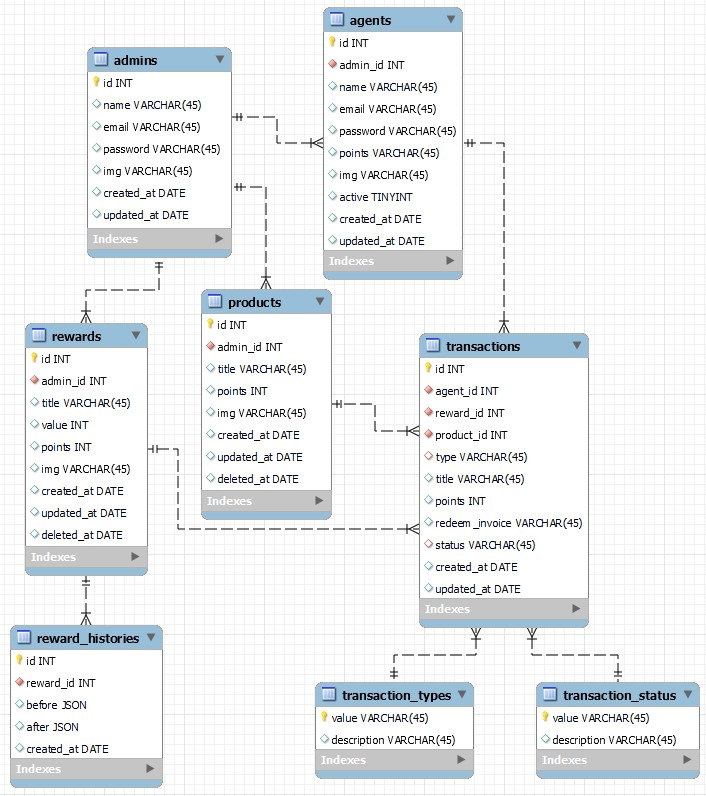
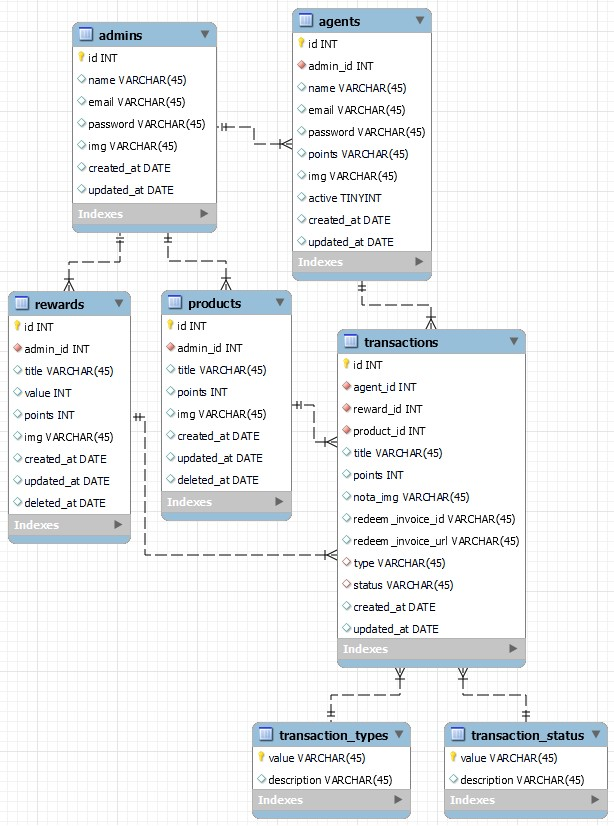
update erd & add xendit

Changed region(s): [[0.0, 0.0, 1.0, 1.0], [0.2476, 0.995, 0.2785, 1.0]]

diff --git a/src/transactions/repositories/record.go b/src/transactions/repositories/record.go
@@ -7,17 +7,19 @@ import (
 )
 
 type Transaction struct {
-	ID            uuid.UUID `gorm:"primaryKey; type:uuid; default:uuid_generate_v4()"`
-	AgentID       uuid.UUID `gorm:"type:uuid; not null"`
-	RewardID      uint32
-	ProductID     uint32
-	Type          string `gorm:"not null"`
-	Title         string `gorm:"not null"`
-	Points        uint32 `gorm:"not null"`
-	RedeemInvoice string
-	Status        string    `gorm:"not null; default:Pending"`
-	CreatedAt     time.Time `gorm:"not null; default: now()"`
-	UpdatedAt     time.Time `gorm:"not null; default: now()"`
+	ID               uuid.UUID `gorm:"primaryKey; type:uuid; default:uuid_generate_v4()"`
+	AgentID          uuid.UUID `gorm:"type:uuid; not null"`
+	RewardID         uint32
+	ProductID        uint32
+	Title            string `gorm:"not null"`
+	Points           uint32 `gorm:"not null"`
+	NotaImg          string
+	RedeemInvoiceID  string
+	RedeemInvoiceURL string
+	Type             string    `gorm:"not null"`
+	Status           string    `gorm:"not null; default:Pending"`
+	CreatedAt        time.Time `gorm:"not null; default: now()"`
+	UpdatedAt        time.Time `gorm:"not null; default: now()"`
 }
 
 type TransactionStatus struct {
@@ -34,17 +36,19 @@ type TransactionType struct {
 
 func (rec *Transaction) ToTransaction() entities.Domain {
 	return entities.Domain{
-		ID:            rec.ID,
-		AgentID:       rec.AgentID,
-		RewardID:      rec.RewardID,
-		ProductID:     rec.ProductID,
-		Type:          rec.Type,
-		Title:         rec.Title,
-		Points:        rec.Points,
-		RedeemInvoice: rec.RedeemInvoice,
-		Status:        rec.Status,
-		CreatedAt:     rec.CreatedAt,
-		UpdatedAt:     rec.UpdatedAt,
+		ID:               rec.ID,
+		AgentID:          rec.AgentID,
+		RewardID:         rec.RewardID,
+		ProductID:        rec.ProductID,
+		Title:            rec.Title,
+		Points:           rec.Points,
+		NotaImg:          rec.NotaImg,
+		RedeemInvoiceID:  rec.RedeemInvoiceID,
+		RedeemInvoiceURL: rec.RedeemInvoiceURL,
+		Type:             rec.Type,
+		Status:           rec.Status,
+		CreatedAt:        rec.CreatedAt,
+		UpdatedAt:        rec.UpdatedAt,
 	}
 }
 
@@ -53,5 +57,6 @@ func createClaims(p entities.Domain, rec *Transaction) {
 	rec.ProductID = p.ProductID
 	rec.Title = p.Title
 	rec.Points = p.Points
+	rec.NotaImg = p.NotaImg
 	rec.Type = "Debit"
 }

diff --git a/src/transactions/entities/domain.go b/src/transactions/entities/domain.go
@@ -6,17 +6,19 @@ import (
 )
 
 type Domain struct {
-	ID            uuid.UUID
-	AgentID       uuid.UUID
-	RewardID      uint32
-	ProductID     uint32
-	Type          string
-	Title         string
-	Points        uint32
-	RedeemInvoice string
-	Status        string
-	CreatedAt     time.Time
-	UpdatedAt     time.Time
+	ID               uuid.UUID
+	AgentID          uuid.UUID
+	RewardID         uint32
+	ProductID        uint32
+	Title            string
+	Points           uint32
+	NotaImg          string
+	RedeemInvoiceID  string
+	RedeemInvoiceURL string
+	Type             string
+	Status           string
+	CreatedAt        time.Time
+	UpdatedAt        time.Time
 }
 
 type TransactionStatus struct {

diff --git a/src/transactions/repositories/xendit.go b/src/transactions/repositories/xendit.go
@@ -1,0 +1,29 @@
+package repositories
+
+import (
+	"fmt"
+	"github.com/spf13/viper"
+	"github.com/xendit/xendit-go"
+	"github.com/xendit/xendit-go/invoice"
+	"log"
+	"time"
+)
+
+func CreateInvoice() {
+	secret := viper.GetString("MYPOINTSPG")
+	xendit.Opt.SecretKey = secret
+
+	data := invoice.CreateParams{
+		ExternalID:  "invoice-" + time.Now().String(),
+		Amount:      200000,
+		PayerEmail:  "customer@customer.com",
+		Description: "invoice  #1",
+	}
+
+	resp, err := invoice.Create(&data)
+	if err != nil {
+		log.Fatal(err)
+
+	}
+	fmt.Printf("created invoice: %+v\n", resp)
+}

diff --git a/src/transactions/dto/transaction_req.go b/src/transactions/dto/transaction_req.go
@@ -10,6 +10,7 @@ type ClaimsReq struct {
 	ProductID uint32    `json:"product_id" validate:"required,numeric,gt=0"`
 	Title     string    `json:"title" validate:"required"`
 	Points    uint32    `json:"points" validate:"required,numeric,gt=0"`
+	NotaImg   string    `json:"nota_img" validate:"required,url"`
 }
 
 func (req *ClaimsReq) ToDomain() entities.Domain {
@@ -18,6 +19,7 @@ func (req *ClaimsReq) ToDomain() entities.Domain {
 		ProductID: req.ProductID,
 		Title:     req.Title,
 		Points:    req.Points,
+		NotaImg:   req.NotaImg,
 	}
 }
 

diff --git a/docs/docs.go b/docs/docs.go
@@ -587,12 +587,16 @@ var doc = `{
             "type": "object",
             "required": [
                 "agent_id",
+                "nota_img",
                 "points",
                 "product_id",
                 "title"
             ],
             "properties": {
                 "agent_id": {
+                    "type": "string"
+                },
+                "nota_img": {
                     "type": "string"
                 },
                 "points": {

diff --git a/src/transactions/repositories/psql.go b/src/transactions/repositories/psql.go
@@ -20,7 +20,7 @@ func (p *transactionPsqlRepository) CreateClaims(payload entities.Domain) (int64
 	claims := Transaction{}
 	createClaims(payload, &claims)
 
-	res := p.DB.DB().Omit("RewardID", "RedeemInvoice").Create(&claims)
+	res := p.DB.DB().Omit("RewardID", "RedeemInvoiceID", "RedeemInvoiceURL").Create(&claims)
 	return res.RowsAffected, res.Error
 }
 
